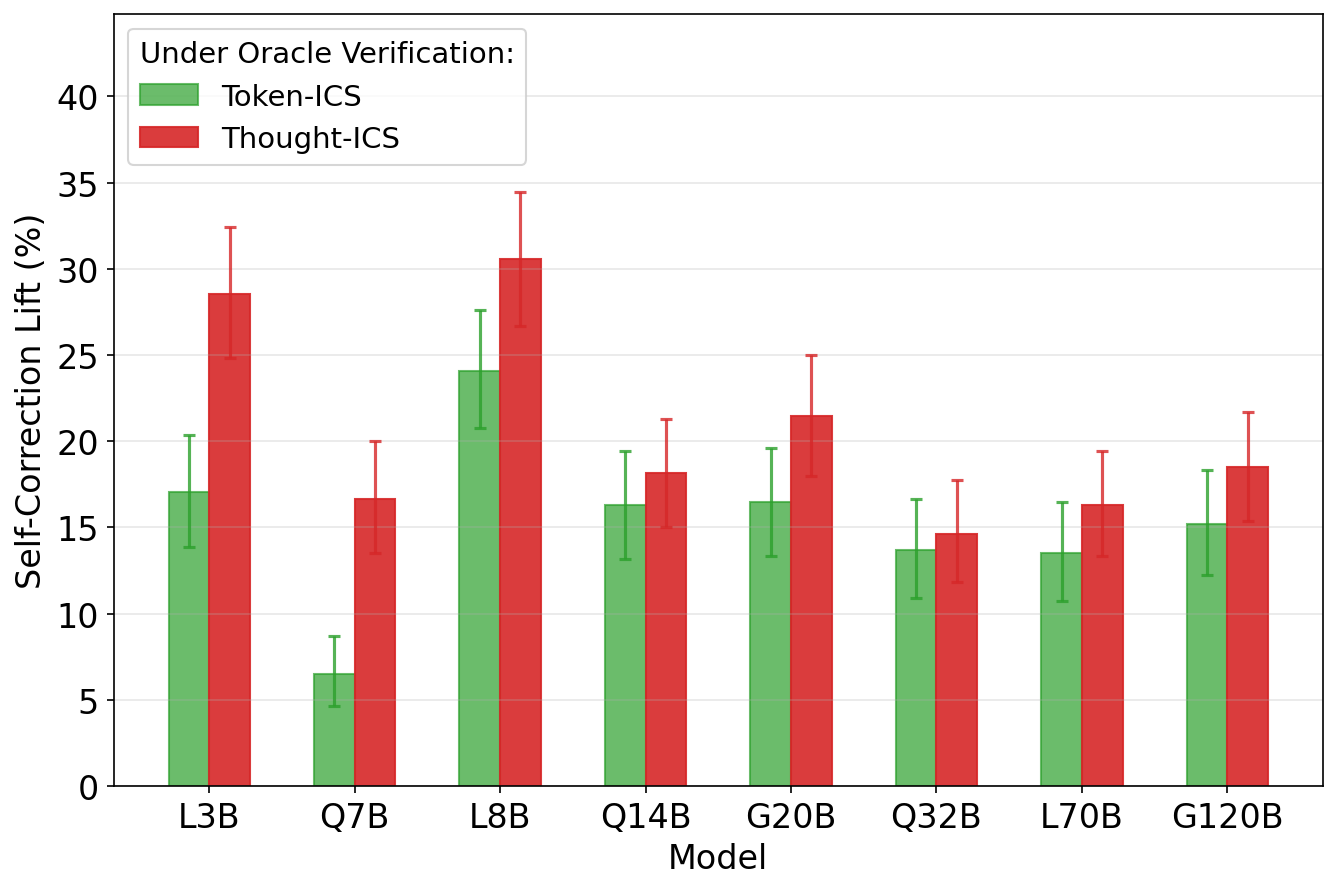
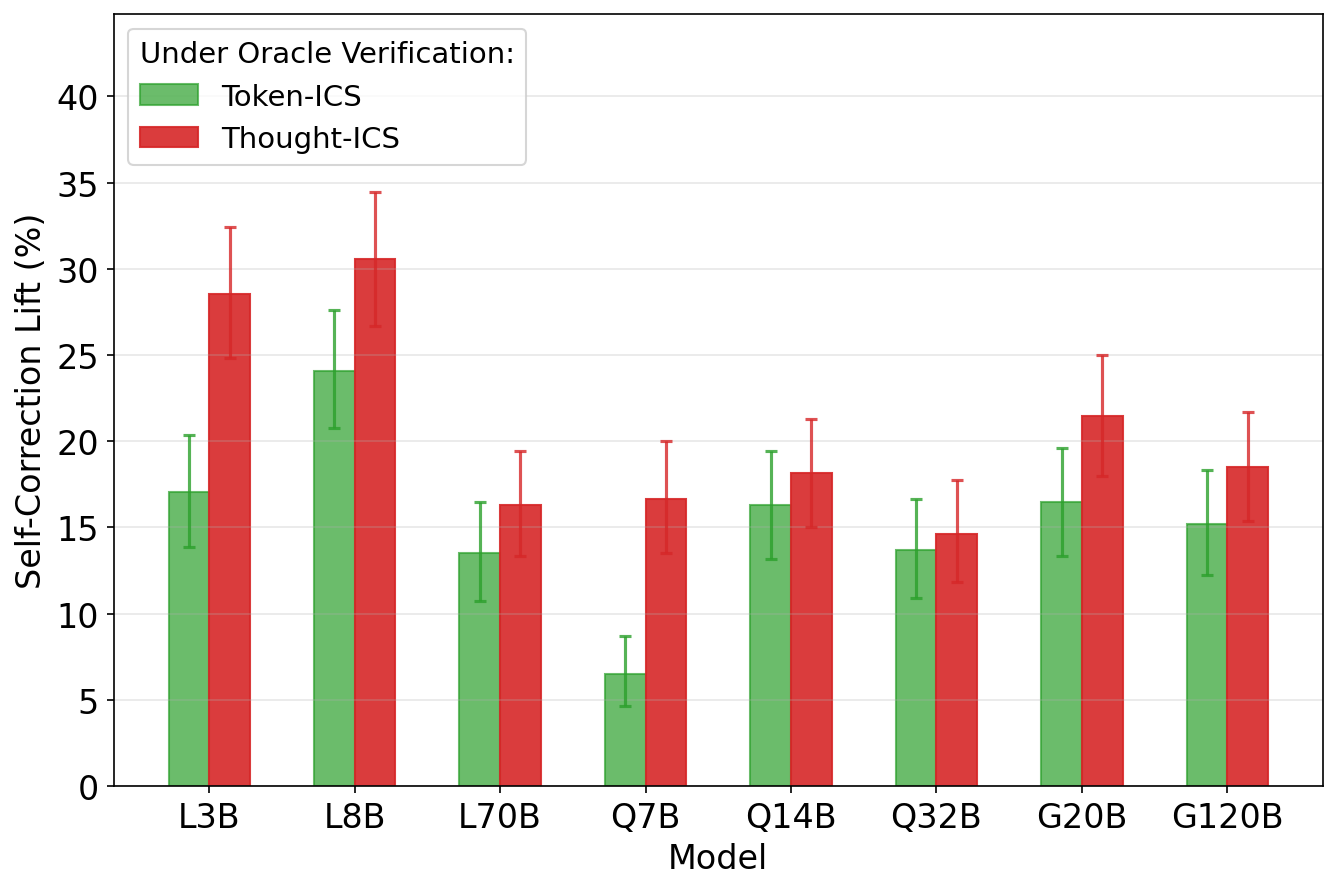
figures: all per-model plots in family order

diff --git a/scripts/paper/make_figures.py b/scripts/paper/make_figures.py
@@ -36,8 +36,7 @@ GREEN, BLUE, RED, GRAY = "#2ecc71", "#3498db", "#e74c3c", "#7f8c8d"
 GREEN_DK, RED_DK = "#27ae60", "#c0392b"
 MODEL_COLORS = {"llama3b": "#e74c3c", "llama8b": "#c0392b", "llama70b": "#922b21", "qwen7b": "#3498db",
                 "qwen14b": "#2980b9", "qwen32b": "#1a5276", "gptoss20b": "#27ae60", "gptoss120b": "#1e8449"}
-ORDER = ["llama3b", "qwen7b", "llama8b", "qwen14b", "gptoss20b", "qwen32b", "llama70b", "gptoss120b"]   # by size
-FAM_ORDER = ["llama3b", "llama8b", "llama70b", "qwen7b", "qwen14b", "qwen32b", "gptoss20b", "gptoss120b"]
+ORDER = ["llama3b", "llama8b", "llama70b", "qwen7b", "qwen14b", "qwen32b", "gptoss20b", "gptoss120b"]   # by family, as in the original paper
 SHORT = {"llama3b": "L3B", "qwen7b": "Q7B", "llama8b": "L8B", "qwen14b": "Q14B", "gptoss20b": "G20B",
          "qwen32b": "Q32B", "llama70b": "L70B", "gptoss120b": "G120B"}
 LONG = {"llama3b": "LLaMA-3B", "llama8b": "LLaMA-8B", "llama70b": "LLaMA-70B", "qwen7b": "Qwen-7B",
@@ -152,7 +151,7 @@ paired = [v for v in pair.values() if "thought" in v and "token" in v]
 def loc_fig(method, name):
     """Original construction (valid_localization_vs_oracle.py); failed localizations, which the
     original runs did not have, are stacked in gray on the erroneous bar."""
-    models = FAM_ORDER
+    models = ORDER
     S = {}
     print(f"\n{name}: first localization vs oracle ({method})")
     for m in models:
@@ -208,7 +207,7 @@ loc_fig("token", "self_localization_vs_oracle_token")
 # ---- Figs: edit_accuracy_clean_vs_erroneous (Thought-ICS) and _token ----------------------
 def edit_fig(method, name):
     """Fix rate of the first resample after a clean vs erroneous prefix (original construction)."""
-    models = FAM_ORDER
+    models = ORDER
     fixed = lambda r: ok(r.get("answer"), r.get("ground_truth"), r["dataset"], r["fixed"])
     acc, lo_, hi_ = {"c": [], "e": []}, {"c": [], "e": []}, {"c": [], "e": []}
     pool = {"c": [0, 0], "e": [0, 0]}
@@ -268,7 +267,7 @@ fig, ax = plt.subplots(figsize=(10, 6))
 bins = np.arange(-5, 12) - 0.5
 bin_centers = np.arange(-5, 11)
 x_smooth = np.linspace(bin_centers[0], bin_centers[-1], 300)
-for m in FAM_ORDER:
+for m in ORDER:
     devs = np.array([v["thought"]["step"] - v["thought"]["oracle"] for v in paired
                      if v["thought"]["model"] == m and v["thought"]["cat"] != "failed"])
     counts, _ = np.histogram(devs, bins=bins, density=True)
@@ -345,19 +344,19 @@ fig, ax = plt.subplots(figsize=(12, 6))
 width = 0.25
 for i, metric in enumerate(("recall", "specificity", "accuracy")):
     f = {"recall": recall, "specificity": specificity, "accuracy": accuracy}[metric]
-    values = [f(bym[m]) for m in FAM_ORDER]
-    bars = ax.bar([xi + (i - 1) * width for xi in range(len(FAM_ORDER))], values, width,
+    values = [f(bym[m]) for m in ORDER]
+    bars = ax.bar([xi + (i - 1) * width for xi in range(len(ORDER))], values, width,
                   label=metric.capitalize(), color=METRIC_COLORS[metric], alpha=0.8)
     for bar, val in zip(bars, values):
         ax.annotate(f"{val:.0f}", xy=(bar.get_x() + bar.get_width() / 2, bar.get_height()), xytext=(0, 3),
                     textcoords="offset points", ha="center", va="bottom", fontsize=8)
-for m in FAM_ORDER:
+for m in ORDER:
     print(f"  {m:11s} calls {len(bym[m]):5d}  recall {recall(bym[m]):5.1f}  specificity {specificity(bym[m]):5.1f}"
           f"  accuracy {accuracy(bym[m]):5.1f}")
 ax.set_xlabel("Model", fontsize=18)
 ax.set_ylabel("Self-Verification Metric (%)", fontsize=18)
-ax.set_xticks(range(len(FAM_ORDER)))
-ax.set_xticklabels([LONG[m] for m in FAM_ORDER], fontsize=14)
+ax.set_xticks(range(len(ORDER)))
+ax.set_xticklabels([LONG[m] for m in ORDER], fontsize=14)
 ax.legend(loc="upper center", fontsize=12, ncol=3)
 ax.set_ylim(0, 115)
 ax.set_yticks(range(0, 101, 20))
@@ -507,7 +506,7 @@ sys.path.insert(0, str(REPO))
 from thought_ics.ics import MODELS as _M  # noqa: E402
 
 chain_len, thought_tok = defaultdict(list), defaultdict(list)
-for m in FAM_ORDER:
+for m in ORDER:
     tok = AutoTokenizer.from_pretrained(_M[m]["hf"])
     for d in sorted(glob.glob(str(EXP / f"{m}_*_oracle_2*/"))):
         d = Path(d)
@@ -532,7 +531,7 @@ def kde(vals, lim):
 print("\nchain / thought lengths (Thought-ICS first attempts)")
 fig, axes = plt.subplots(1, 2, figsize=(12, 5))
 xc, xt = np.linspace(0, 60, 500), np.linspace(0, 250, 500)
-for m in FAM_ORDER:
+for m in ORDER:
     cl, tl = chain_len[m], thought_tok[m]
     axes[0].plot(xc, kde(cl, 60)(xc), color=MODEL_COLORS[m], linewidth=2, label=f"{LONG[m]} (median={np.median(cl):.0f})")
     axes[1].plot(xt, kde(tl, 250)(xt), color=MODEL_COLORS[m], linewidth=2, label=f"{LONG[m]} (median={np.median(tl):.0f})")
